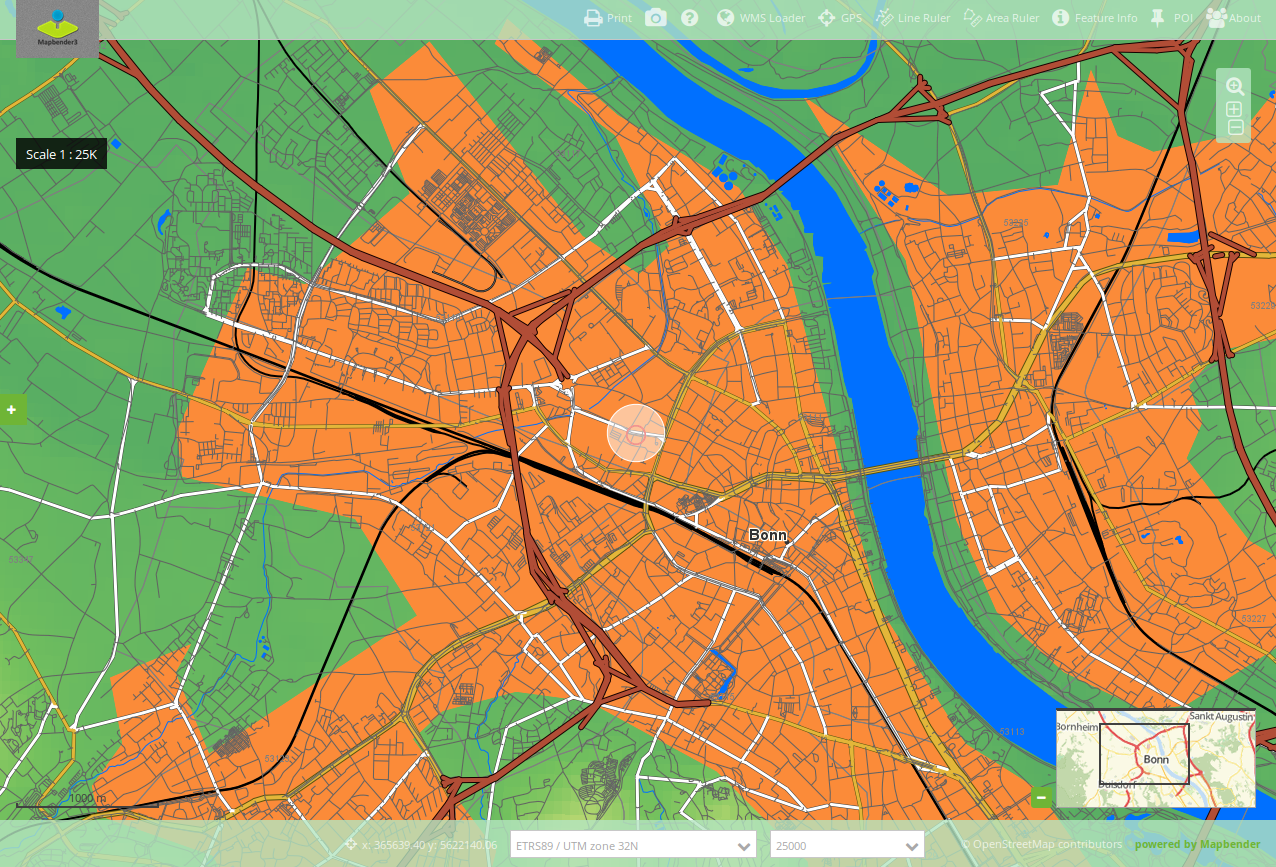
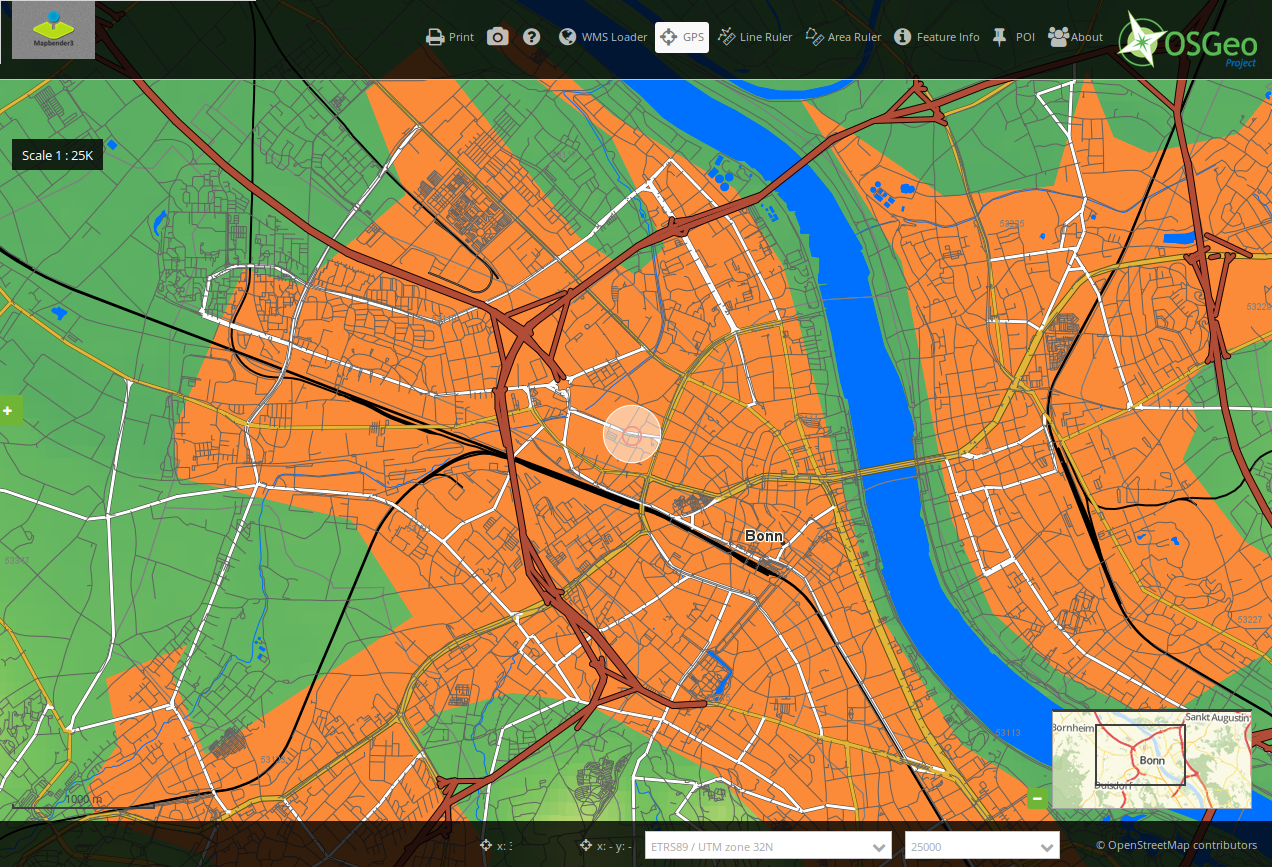
Elements: Layout Screenshot

diff --git a/de/bundles/Mapbender/CoreBundle/elements/html.rst b/de/bundles/Mapbender/CoreBundle/elements/html.rst
@@ -15,6 +15,9 @@ Configuration
 
 Einfügen eines Bildes in Ihre Anwendung:
 
+.. image:: ../../../../../figures/html_result_OSGeo.png
+     :scale: 80
+
 .. code-block:: yaml
 
     <img src='http://mapbender3.org/sites/default/files/OSGeo_project.png' height='60px'>
@@ -23,12 +26,13 @@ Einfügen eines Bildes in Ihre Anwendung:
 .. image:: ../../../../../figures/de/html.png
      :scale: 80
 
-* Title: Titel des HTML-Elements. Dieser wird in der Layouts Liste angezeigt und ermöglicht, mehrere Button-Elemente voneinander zu unterscheiden. 
-* Content: Inhalt des HTML-Elements, z.B. Bild oder Link. Content kann Variablen: "application", "entity" und "configuration" beinhalten.
-* Classes: html-element-inline
+* **Title:** Titel des HTML-Elements. Dieser wird in der Layouts Liste angezeigt und ermöglicht, mehrere HTML-Elemente voneinander zu unterscheiden. 
+* **Content:** Inhalt des HTML-Elements, z.B. Bild oder Link. Content kann Variablen: "application", "entity" und "configuration" beinhalten.
+* **Classes:** html-element-inline, CSS-Klasse
 
 
 YAML-Definition:
+----
 
 .. code-block:: yaml
 
@@ -39,8 +43,8 @@ YAML-Definition:
 Class, Widget & Style
 ============================
 
-* Class: Mapbender\\CoreBundle\\Element\\HTMLElement
-* Widget: mapbender.mbHTMLElement
+* **Class:** Mapbender\\CoreBundle\\Element\\HTMLElement
+* **Widget:** mapbender.mbHTMLElement
 
 HTTP Callbacks
 ==============
